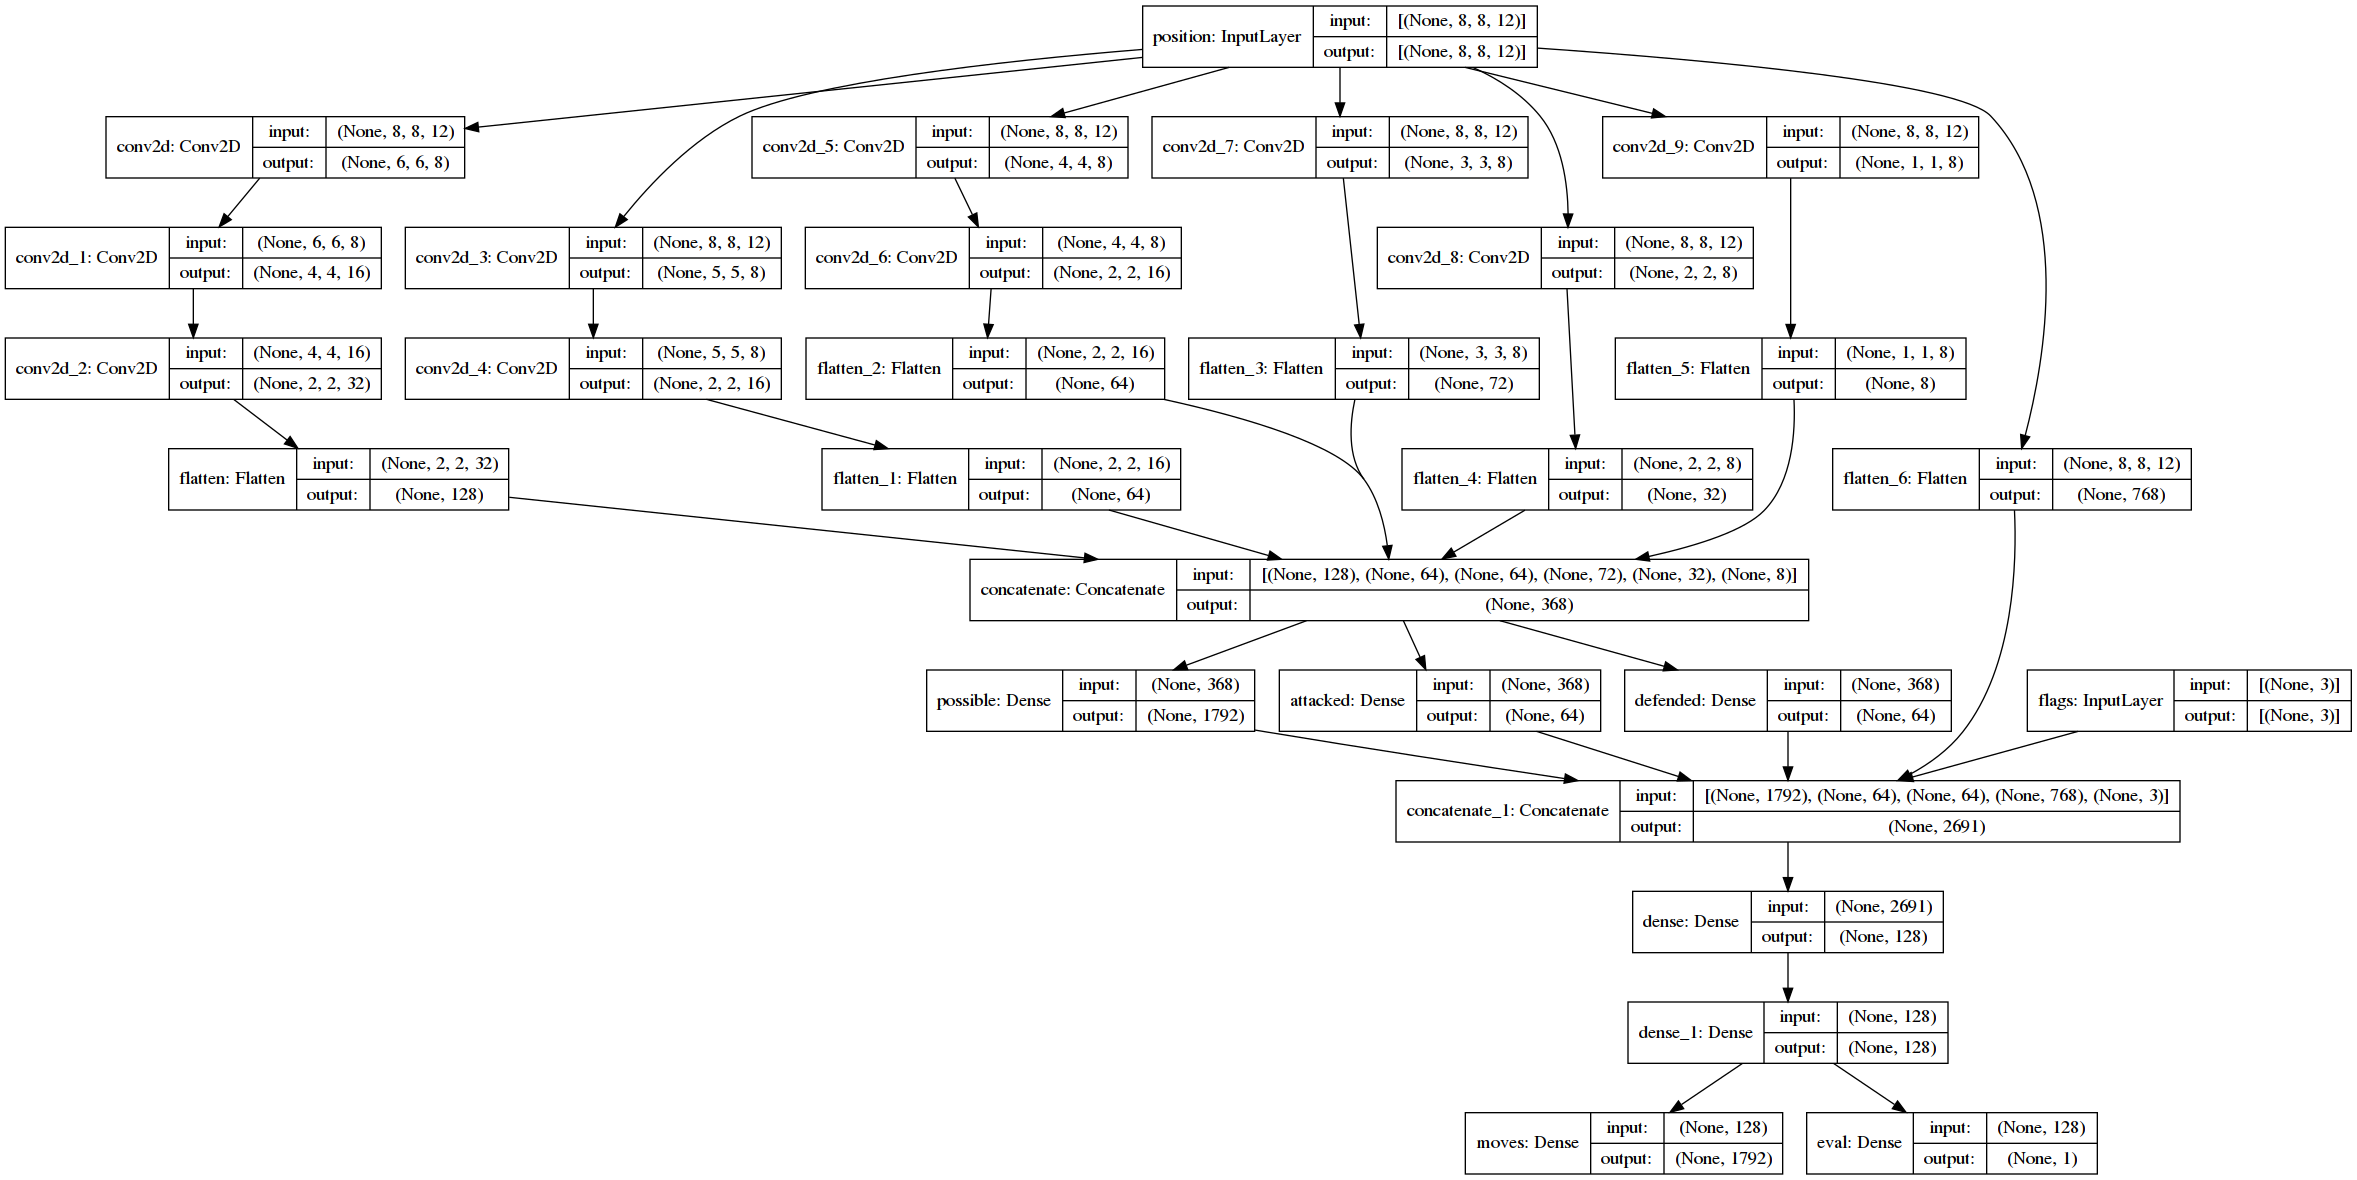
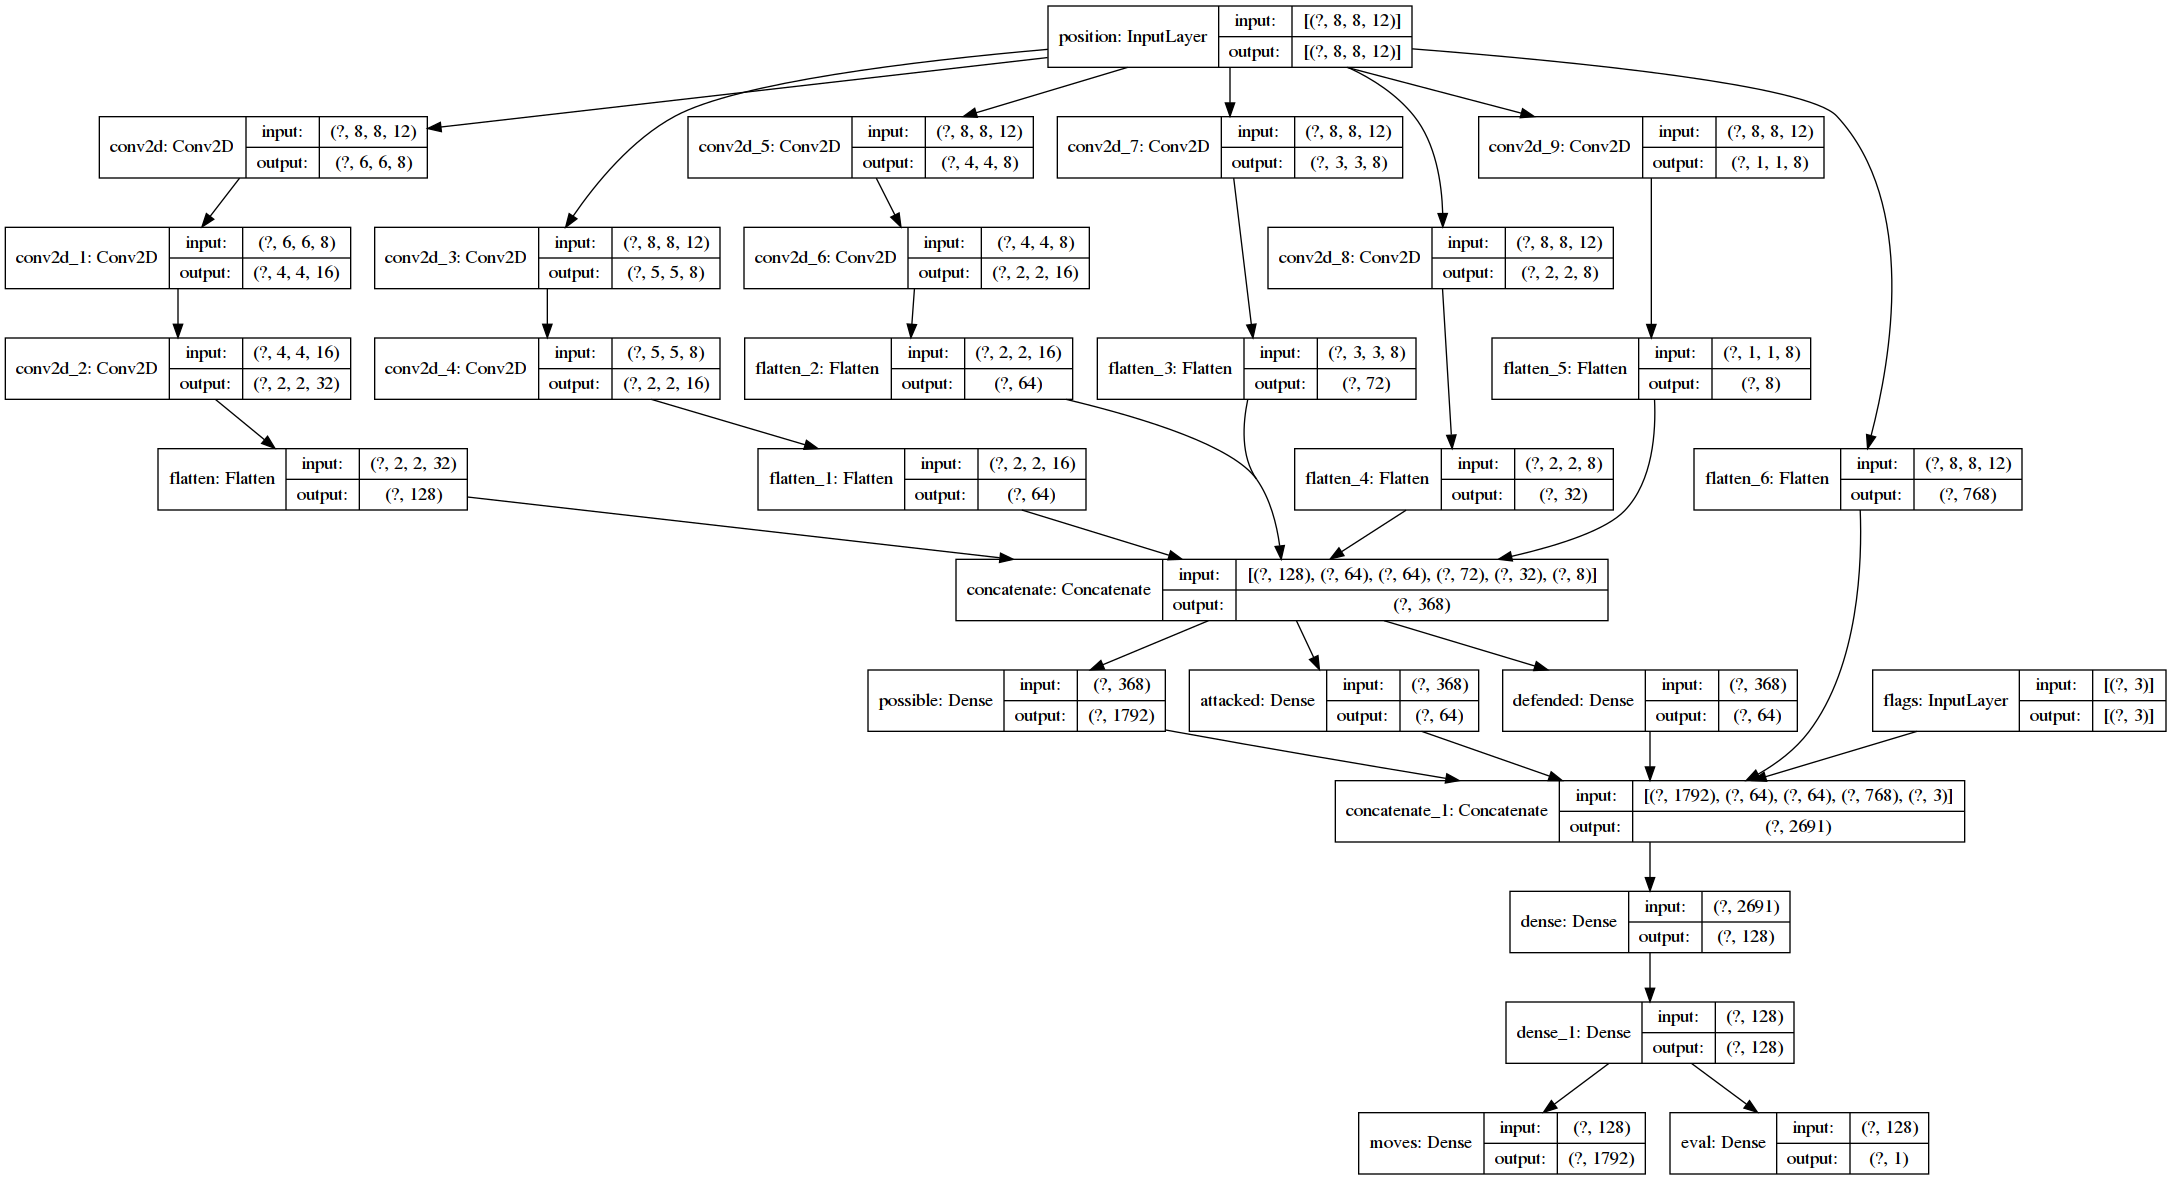
Migrate to tf 2.0

diff --git a/chessnn/nn.py b/chessnn/nn.py
@@ -1,27 +1,16 @@
 import logging
 import os
 import time
-import warnings
 from abc import abstractmethod
-
-# from https://github.com/tensorflow/tensorflow/issues/26691
-# noinspection PyPackageRequirements
 from operator import itemgetter
 
-import absl.logging
 import chess
 import numpy as np
 from chess import PIECE_TYPES
+from tensorflow_core.python.keras import models, callbacks, layers
+from tensorflow_core.python.keras.utils.vis_utils import plot_model
 
 from chessnn import MoveRecord, MOVES_MAP
-
-# noinspection PyProtectedMember
-logging.root.removeHandler(absl.logging._absl_handler)
-
-os.environ['TF_CPP_MIN_LOG_LEVEL'] = '3'
-with warnings.catch_warnings():
-    warnings.filterwarnings("ignore", category=FutureWarning)
-    from tensorflow.python.keras import models, layers, utils, callbacks, regularizers
 
 
 class NN(object):
@@ -38,8 +27,8 @@ class NN(object):
             logging.info("Starting with clean model")
             self._model = self._get_nn()
             self._model.summary(print_fn=logging.info)
-            utils.plot_model(self._model, to_file=os.path.join(os.path.dirname(__file__), '..', 'model.png'),
-                             show_shapes=True)
+            plot_model(self._model, to_file=os.path.join(os.path.dirname(__file__), '..', 'model.png'),
+                       show_shapes=True)
 
     def save(self, filename):
         logging.info("Saving model to: %s", filename)
